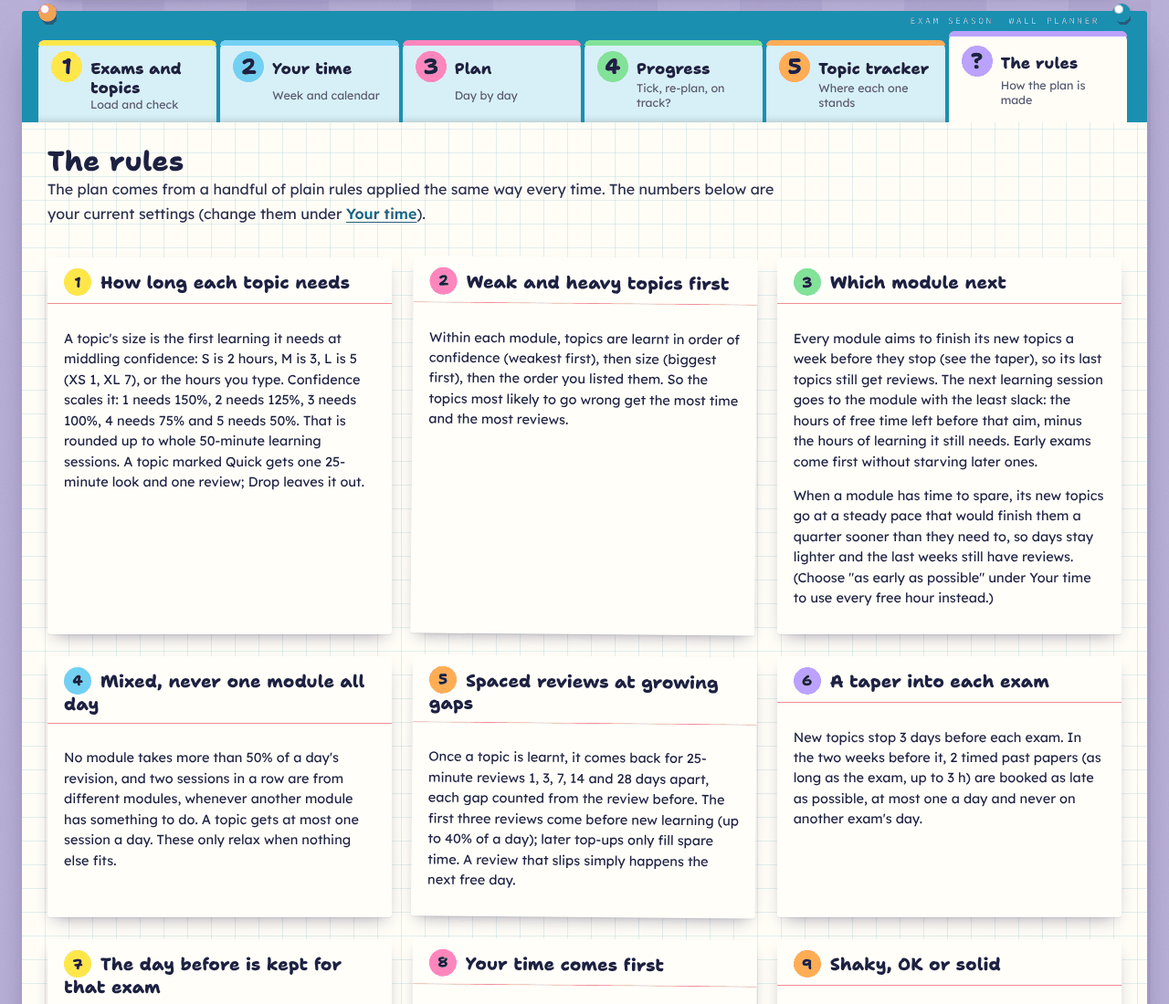
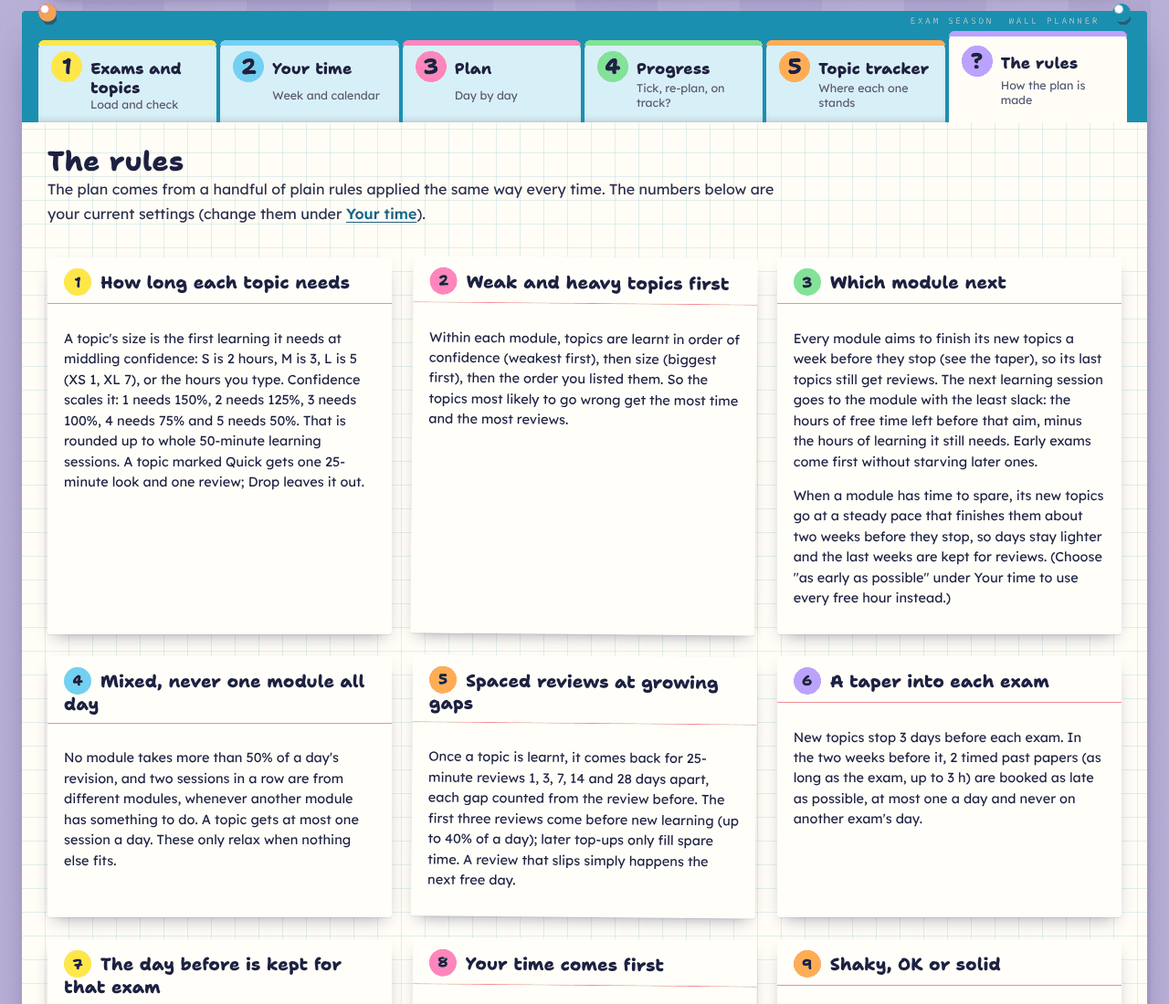
Audit after the review: pace new topics to two weeks before they stop so the last ones still get reviews, a separate session column, board codes on loose lines only with a date, and the keyboard focus follows Tab after an edit

Changed region(s): [[0.6875, 0.4945, 0.9375, 0.6182]]

diff --git a/app/index.html b/app/index.html
@@ -1325,13 +1325,14 @@ var ExamSeason = (function () {
     code: ['module code', 'module', 'course code', 'unit code', 'code', 'paper code', 'subject code', 'module id', 'exam code', 'component code', 'assessment code', 'module ref', 'module no'],
     name: ['module title', 'module name', 'title', 'course title', 'course name', 'course', 'unit title', 'unit name', 'unit', 'paper', 'paper title', 'exam title', 'subject', 'module description', 'assessment title', 'examination', 'exam', 'exam name'],
     date: ['date', 'exam date', 'day date', 'date of exam', 'examination date', 'day', 'exam day', 'date and time', 'date time', 'start date', 'when'],
-    start: ['start', 'start time', 'time', 'begins', 'from', 'exam start', 'starts', 'start at', 'session', 'am pm', 'am or pm', 'exam session'],
+    start: ['start', 'start time', 'time', 'begins', 'from', 'exam start', 'starts', 'start at'],
     end: ['end', 'end time', 'finish', 'finish time', 'to', 'until', 'ends', 'exam end'],
     duration: ['duration', 'length', 'duration mins', 'duration minutes', 'duration hrs', 'duration hours', 'exam duration', 'mins', 'minutes', 'hours', 'hrs', 'length mins', 'length hours'],
     room: ['venue', 'room', 'location', 'building', 'hall', 'exam venue', 'exam room', 'place', 'centre', 'campus'],
     seat: ['seat', 'seat no', 'seat number', 'desk', 'desk number', 'desk no'],
     type: ['type', 'assessment type', 'exam type', 'component', 'sitting', 'attempt', 'kind', 'format', 'mode', 'assessment', 'period'],
-    notes: ['notes', 'note', 'comments', 'comment', 'information', 'info', 'details', 'additional information', 'remarks']
+    notes: ['notes', 'note', 'comments', 'comment', 'information', 'info', 'details', 'additional information', 'remarks'],
+    session: ['session', 'am pm', 'am or pm', 'exam session', 'time of day']
   };
 
   var EXAM_KEYWORDS = [
@@ -1568,8 +1569,14 @@ var ExamSeason = (function () {
     }
     if (start === null) { start = startFromDate; if (end === null) end = endFromDate; }
     var fromSession = false;
+    var sessCell = cell(cells, map.session);
+    if (start === null && sessCell) {
+      var tsx = findTimes(sessCell);
+      if (tsx.length) start = tsx[0].min;
+    }
     if (start === null) {
       start = startCell ? sessionStart(startCell) : null;
+      if (start === null && sessCell) start = sessionStart(sessCell);
       if (start === null && day !== null) start = sessionStart(dateCell);
       fromSession = start !== null;
     }
@@ -1617,8 +1624,9 @@ var ExamSeason = (function () {
       var raw = squash(lines[i]), line = i + 1;
       if (!raw) continue;
       var code = findCode(raw), paper = null;
-      if (!code) { paper = findBoardCode(raw); code = paper; }
       var date = findDate(raw, 'DMY', ref);
+      // A board paper code counts only on a line that also has a date.
+      if (!code && date) { paper = findBoardCode(raw); code = paper; }
       if (!code && !date) {
         if (out.exams.length === 0) continue;
         out.messages.push({ level: 'info', line: line, text: 'Line ' + line + ' was not read: no module code or date in "' + firstChars(raw, 60) + '".' });
@@ -3099,11 +3107,12 @@ var ExamSeason = (function () {
     states.forEach(function (st) { if (st.done < st.count) remaining[st.exam.id] += (st.count - st.done) * st.len; });
 
     // With time to spare, a module's new learning goes at a steady pace
-    // that would finish it a little (a quarter) faster than its aim needs,
-    // instead of filling the first weeks and leaving the last ones empty.
+    // that would finish it a quarter early against a target a week before
+    // its aim (so two weeks before new topics stop, leaving room for
+    // reviews), instead of filling the first weeks and leaving the rest empty.
     // Time to spare means the learning and the first three reviews still
-    // to do take under four fifths of the free time before the aim, for
-    // the module and for the plan as a whole.
+    // to do take under four fifths of the free time: before the module's
+    // target, and before the last aim for the plan as a whole.
     var credit = {}, lastAim = from;
     plan.exams.forEach(function (e) { credit[e.id] = 0; lastAim = Math.max(lastAim, e.aimBy); });
     function needLeft() {
@@ -3138,8 +3147,8 @@ var ExamSeason = (function () {
       if (need && need.total * 5 < capBetween(x, Math.min(lastAim - from, nDays - 1)) * 4) {
         var free0 = Math.max(0, dd.cap - dd.used);
         plan.exams.forEach(function (e) {
-          if (remaining[e.id] <= 0 || d > e.aimBy) return;
-          var span = capBetween(x, Math.min(e.aimBy - from, nDays - 1));
+          if (remaining[e.id] <= 0 || d > e.aimBy - 7) return;
+          var span = capBetween(x, Math.min(e.aimBy - 7 - from, nDays - 1));
           if (span <= 0 || need.byExam[e.id] * 5 >= span * 4) return;
           credit[e.id] += ceilDiv(remaining[e.id] * free0 * 5, span * 4);
           paced[e.id] = true;
@@ -3990,6 +3999,8 @@ if (typeof module !== 'undefined' && module.exports) module.exports = ExamSeason
   function $all(sel, root) { return Array.prototype.slice.call((root || document).querySelectorAll(sel)); }
 
   function plural(n, one, many) { return n + ' ' + (n === 1 ? one : (many || one + 's')); }
+
+  function later(fn) { setTimeout(fn, 0); }
 
   function esc(s) {
     return String(s === null || s === undefined ? '' : s).replace(/&/g, '&amp;').replace(/</g, '&lt;').replace(/>/g, '&gt;').replace(/"/g, '&quot;').replace(/'/g, '&#39;');
@@ -5103,7 +5114,7 @@ if (typeof module !== 'undefined' && module.exports) module.exports = ExamSeason
       ['m0', 'How long each topic needs', '<p>A topic\'s size is the first learning it needs at middling confidence: S is 2 hours, M is 3, L is 5 (XS 1, XL 7), or the hours you type. Confidence scales it: 1 needs 150%, 2 needs 125%, 3 needs 100%, 4 needs 75% and 5 needs 50%. That is rounded up to whole ' + s.learnMin + '-minute learning sessions. A topic marked Quick gets one ' + s.reviewMin + '-minute look and one review; Drop leaves it out.</p>'],
       ['m1', 'Weak and heavy topics first', '<p>Within each module, topics are learnt in order of confidence (weakest first), then size (biggest first), then the order you listed them. So the topics most likely to go wrong get the most time and the most reviews.</p>'],
       ['m2', 'Which module next', '<p>Every module aims to finish its new topics a week before they stop (see the taper), so its last topics still get reviews. The next learning session goes to the module with the least slack: the hours of free time left before that aim, minus the hours of learning it still needs. Early exams come first without starving later ones.</p>' +
-        (s.pace === 'spread' ? '<p>When a module has time to spare, its new topics go at a steady pace that would finish them a quarter sooner than they need to, so days stay lighter and the last weeks still have reviews. (Choose "as early as possible" under Your time to use every free hour instead.)</p>' : '<p>New topics are learnt as early as your free time allows (you chose "as early as possible" under Your time).</p>')],
+        (s.pace === 'spread' ? '<p>When a module has time to spare, its new topics go at a steady pace that finishes them about two weeks before they stop, so days stay lighter and the last weeks are kept for reviews. (Choose "as early as possible" under Your time to use every free hour instead.)</p>' : '<p>New topics are learnt as early as your free time allows (you chose "as early as possible" under Your time).</p>')],
       ['m3', 'Mixed, never one module all day', '<p>No module takes more than ' + s.maxShare + '% of a day\'s revision, and two sessions in a row are from different modules, whenever another module has something to do. A topic gets at most one session a day. These only relax when nothing else fits.</p>'],
       ['m4', 'Spaced reviews at growing gaps', '<p>Once a topic is learnt, it comes back for ' + s.reviewMin + '-minute reviews ' + gaps.join(', ').replace(/, ([0-9]+)$/, ' and $1') + ' days apart, each gap counted from the review before. The first three reviews come before new learning (up to ' + s.reviewShare + '% of a day); later top-ups only fill spare time. A review that slips simply happens the next free day.</p>'],
       ['m5', 'A taper into each exam', '<p>New topics stop ' + plural(s.taperDays, 'day') + ' before each exam. In the two weeks before it, ' + s.papers + ' timed past papers (as long as the exam, up to ' + M.fmtDur(s.paperMax) + ') are booked as late as possible, at most one a day and never on another exam\'s day.</p>'],
@@ -5366,10 +5377,14 @@ if (typeof module !== 'undefined' && module.exports) module.exports = ExamSeason
       if (again) again.focus();
       return;
     }
-    if (t.hasAttribute('data-exam')) { examField(parseInt(t.getAttribute('data-exam'), 10), t.getAttribute('data-field'), t.value); return; }
-    if (t.hasAttribute('data-topic') && t.hasAttribute('data-field')) { topicField(parseInt(t.getAttribute('data-topic'), 10), t.getAttribute('data-field'), t.value); return; }
-    if (t.hasAttribute('data-week')) { weekField(parseInt(t.getAttribute('data-week'), 10), t.getAttribute('data-field'), t.value); return; }
-    if (t.hasAttribute('data-setting')) { settingField(t.getAttribute('data-setting'), t.value); return; }
+    // Field edits are applied once the focus has moved (after Tab, say), so
+    // the redraw puts the focus back where the student went next.
+    var idx = parseInt(t.getAttribute('data-exam') || t.getAttribute('data-topic') || t.getAttribute('data-week'), 10);
+    var field = t.getAttribute('data-field'), value = t.value;
+    if (t.hasAttribute('data-exam')) { later(function () { examField(idx, field, value); }); return; }
+    if (t.hasAttribute('data-topic') && t.hasAttribute('data-field')) { later(function () { topicField(idx, field, value); }); return; }
+    if (t.hasAttribute('data-week')) { later(function () { weekField(idx, field, value); }); return; }
+    if (t.hasAttribute('data-setting')) { var key = t.getAttribute('data-setting'); later(function () { settingField(key, value); }); return; }
     if (t.id === 'set-preset') {
       var pr = PRESETS.filter(function (x) { return x[0] === t.value; })[0];
       if (pr) {

diff --git a/src/model.js b/src/model.js
@@ -631,13 +631,14 @@ var ExamSeason = (function () {
     code: ['module code', 'module', 'course code', 'unit code', 'code', 'paper code', 'subject code', 'module id', 'exam code', 'component code', 'assessment code', 'module ref', 'module no'],
     name: ['module title', 'module name', 'title', 'course title', 'course name', 'course', 'unit title', 'unit name', 'unit', 'paper', 'paper title', 'exam title', 'subject', 'module description', 'assessment title', 'examination', 'exam', 'exam name'],
     date: ['date', 'exam date', 'day date', 'date of exam', 'examination date', 'day', 'exam day', 'date and time', 'date time', 'start date', 'when'],
-    start: ['start', 'start time', 'time', 'begins', 'from', 'exam start', 'starts', 'start at', 'session', 'am pm', 'am or pm', 'exam session'],
+    start: ['start', 'start time', 'time', 'begins', 'from', 'exam start', 'starts', 'start at'],
     end: ['end', 'end time', 'finish', 'finish time', 'to', 'until', 'ends', 'exam end'],
     duration: ['duration', 'length', 'duration mins', 'duration minutes', 'duration hrs', 'duration hours', 'exam duration', 'mins', 'minutes', 'hours', 'hrs', 'length mins', 'length hours'],
     room: ['venue', 'room', 'location', 'building', 'hall', 'exam venue', 'exam room', 'place', 'centre', 'campus'],
     seat: ['seat', 'seat no', 'seat number', 'desk', 'desk number', 'desk no'],
     type: ['type', 'assessment type', 'exam type', 'component', 'sitting', 'attempt', 'kind', 'format', 'mode', 'assessment', 'period'],
-    notes: ['notes', 'note', 'comments', 'comment', 'information', 'info', 'details', 'additional information', 'remarks']
+    notes: ['notes', 'note', 'comments', 'comment', 'information', 'info', 'details', 'additional information', 'remarks'],
+    session: ['session', 'am pm', 'am or pm', 'exam session', 'time of day']
   };
 
   var EXAM_KEYWORDS = [
@@ -874,8 +875,14 @@ var ExamSeason = (function () {
     }
     if (start === null) { start = startFromDate; if (end === null) end = endFromDate; }
     var fromSession = false;
+    var sessCell = cell(cells, map.session);
+    if (start === null && sessCell) {
+      var tsx = findTimes(sessCell);
+      if (tsx.length) start = tsx[0].min;
+    }
     if (start === null) {
       start = startCell ? sessionStart(startCell) : null;
+      if (start === null && sessCell) start = sessionStart(sessCell);
       if (start === null && day !== null) start = sessionStart(dateCell);
       fromSession = start !== null;
     }
@@ -923,8 +930,9 @@ var ExamSeason = (function () {
       var raw = squash(lines[i]), line = i + 1;
       if (!raw) continue;
       var code = findCode(raw), paper = null;
-      if (!code) { paper = findBoardCode(raw); code = paper; }
       var date = findDate(raw, 'DMY', ref);
+      // A board paper code counts only on a line that also has a date.
+      if (!code && date) { paper = findBoardCode(raw); code = paper; }
       if (!code && !date) {
         if (out.exams.length === 0) continue;
         out.messages.push({ level: 'info', line: line, text: 'Line ' + line + ' was not read: no module code or date in "' + firstChars(raw, 60) + '".' });
@@ -2405,11 +2413,12 @@ var ExamSeason = (function () {
     states.forEach(function (st) { if (st.done < st.count) remaining[st.exam.id] += (st.count - st.done) * st.len; });
 
     // With time to spare, a module's new learning goes at a steady pace
-    // that would finish it a little (a quarter) faster than its aim needs,
-    // instead of filling the first weeks and leaving the last ones empty.
+    // that would finish it a quarter early against a target a week before
+    // its aim (so two weeks before new topics stop, leaving room for
+    // reviews), instead of filling the first weeks and leaving the rest empty.
     // Time to spare means the learning and the first three reviews still
-    // to do take under four fifths of the free time before the aim, for
-    // the module and for the plan as a whole.
+    // to do take under four fifths of the free time: before the module's
+    // target, and before the last aim for the plan as a whole.
     var credit = {}, lastAim = from;
     plan.exams.forEach(function (e) { credit[e.id] = 0; lastAim = Math.max(lastAim, e.aimBy); });
     function needLeft() {
@@ -2444,8 +2453,8 @@ var ExamSeason = (function () {
       if (need && need.total * 5 < capBetween(x, Math.min(lastAim - from, nDays - 1)) * 4) {
         var free0 = Math.max(0, dd.cap - dd.used);
         plan.exams.forEach(function (e) {
-          if (remaining[e.id] <= 0 || d > e.aimBy) return;
-          var span = capBetween(x, Math.min(e.aimBy - from, nDays - 1));
+          if (remaining[e.id] <= 0 || d > e.aimBy - 7) return;
+          var span = capBetween(x, Math.min(e.aimBy - 7 - from, nDays - 1));
           if (span <= 0 || need.byExam[e.id] * 5 >= span * 4) return;
           credit[e.id] += ceilDiv(remaining[e.id] * free0 * 5, span * 4);
           paced[e.id] = true;

diff --git a/src/ui.js b/src/ui.js
@@ -24,6 +24,8 @@
 
   function plural(n, one, many) { return n + ' ' + (n === 1 ? one : (many || one + 's')); }
 
+  function later(fn) { setTimeout(fn, 0); }
+
   function esc(s) {
     return String(s === null || s === undefined ? '' : s).replace(/&/g, '&amp;').replace(/</g, '&lt;').replace(/>/g, '&gt;').replace(/"/g, '&quot;').replace(/'/g, '&#39;');
   }
@@ -1136,7 +1138,7 @@
       ['m0', 'How long each topic needs', '<p>A topic\'s size is the first learning it needs at middling confidence: S is 2 hours, M is 3, L is 5 (XS 1, XL 7), or the hours you type. Confidence scales it: 1 needs 150%, 2 needs 125%, 3 needs 100%, 4 needs 75% and 5 needs 50%. That is rounded up to whole ' + s.learnMin + '-minute learning sessions. A topic marked Quick gets one ' + s.reviewMin + '-minute look and one review; Drop leaves it out.</p>'],
       ['m1', 'Weak and heavy topics first', '<p>Within each module, topics are learnt in order of confidence (weakest first), then size (biggest first), then the order you listed them. So the topics most likely to go wrong get the most time and the most reviews.</p>'],
       ['m2', 'Which module next', '<p>Every module aims to finish its new topics a week before they stop (see the taper), so its last topics still get reviews. The next learning session goes to the module with the least slack: the hours of free time left before that aim, minus the hours of learning it still needs. Early exams come first without starving later ones.</p>' +
-        (s.pace === 'spread' ? '<p>When a module has time to spare, its new topics go at a steady pace that would finish them a quarter sooner than they need to, so days stay lighter and the last weeks still have reviews. (Choose "as early as possible" under Your time to use every free hour instead.)</p>' : '<p>New topics are learnt as early as your free time allows (you chose "as early as possible" under Your time).</p>')],
+        (s.pace === 'spread' ? '<p>When a module has time to spare, its new topics go at a steady pace that finishes them about two weeks before they stop, so days stay lighter and the last weeks are kept for reviews. (Choose "as early as possible" under Your time to use every free hour instead.)</p>' : '<p>New topics are learnt as early as your free time allows (you chose "as early as possible" under Your time).</p>')],
       ['m3', 'Mixed, never one module all day', '<p>No module takes more than ' + s.maxShare + '% of a day\'s revision, and two sessions in a row are from different modules, whenever another module has something to do. A topic gets at most one session a day. These only relax when nothing else fits.</p>'],
       ['m4', 'Spaced reviews at growing gaps', '<p>Once a topic is learnt, it comes back for ' + s.reviewMin + '-minute reviews ' + gaps.join(', ').replace(/, ([0-9]+)$/, ' and $1') + ' days apart, each gap counted from the review before. The first three reviews come before new learning (up to ' + s.reviewShare + '% of a day); later top-ups only fill spare time. A review that slips simply happens the next free day.</p>'],
       ['m5', 'A taper into each exam', '<p>New topics stop ' + plural(s.taperDays, 'day') + ' before each exam. In the two weeks before it, ' + s.papers + ' timed past papers (as long as the exam, up to ' + M.fmtDur(s.paperMax) + ') are booked as late as possible, at most one a day and never on another exam\'s day.</p>'],
@@ -1399,10 +1401,14 @@
       if (again) again.focus();
       return;
     }
-    if (t.hasAttribute('data-exam')) { examField(parseInt(t.getAttribute('data-exam'), 10), t.getAttribute('data-field'), t.value); return; }
-    if (t.hasAttribute('data-topic') && t.hasAttribute('data-field')) { topicField(parseInt(t.getAttribute('data-topic'), 10), t.getAttribute('data-field'), t.value); return; }
-    if (t.hasAttribute('data-week')) { weekField(parseInt(t.getAttribute('data-week'), 10), t.getAttribute('data-field'), t.value); return; }
-    if (t.hasAttribute('data-setting')) { settingField(t.getAttribute('data-setting'), t.value); return; }
+    // Field edits are applied once the focus has moved (after Tab, say), so
+    // the redraw puts the focus back where the student went next.
+    var idx = parseInt(t.getAttribute('data-exam') || t.getAttribute('data-topic') || t.getAttribute('data-week'), 10);
+    var field = t.getAttribute('data-field'), value = t.value;
+    if (t.hasAttribute('data-exam')) { later(function () { examField(idx, field, value); }); return; }
+    if (t.hasAttribute('data-topic') && t.hasAttribute('data-field')) { later(function () { topicField(idx, field, value); }); return; }
+    if (t.hasAttribute('data-week')) { later(function () { weekField(idx, field, value); }); return; }
+    if (t.hasAttribute('data-setting')) { var key = t.getAttribute('data-setting'); later(function () { settingField(key, value); }); return; }
     if (t.id === 'set-preset') {
       var pr = PRESETS.filter(function (x) { return x[0] === t.value; })[0];
       if (pr) {

diff --git a/companion/examseason/model.py b/companion/examseason/model.py
@@ -666,13 +666,14 @@ EXAM_SYNONYMS = {
     'code': ['module code', 'module', 'course code', 'unit code', 'code', 'paper code', 'subject code', 'module id', 'exam code', 'component code', 'assessment code', 'module ref', 'module no'],
     'name': ['module title', 'module name', 'title', 'course title', 'course name', 'course', 'unit title', 'unit name', 'unit', 'paper', 'paper title', 'exam title', 'subject', 'module description', 'assessment title', 'examination', 'exam', 'exam name'],
     'date': ['date', 'exam date', 'day date', 'date of exam', 'examination date', 'day', 'exam day', 'date and time', 'date time', 'start date', 'when'],
-    'start': ['start', 'start time', 'time', 'begins', 'from', 'exam start', 'starts', 'start at', 'session', 'am pm', 'am or pm', 'exam session'],
+    'start': ['start', 'start time', 'time', 'begins', 'from', 'exam start', 'starts', 'start at'],
     'end': ['end', 'end time', 'finish', 'finish time', 'to', 'until', 'ends', 'exam end'],
     'duration': ['duration', 'length', 'duration mins', 'duration minutes', 'duration hrs', 'duration hours', 'exam duration', 'mins', 'minutes', 'hours', 'hrs', 'length mins', 'length hours'],
     'room': ['venue', 'room', 'location', 'building', 'hall', 'exam venue', 'exam room', 'place', 'centre', 'campus'],
     'seat': ['seat', 'seat no', 'seat number', 'desk', 'desk number', 'desk no'],
     'type': ['type', 'assessment type', 'exam type', 'component', 'sitting', 'attempt', 'kind', 'format', 'mode', 'assessment', 'period'],
     'notes': ['notes', 'note', 'comments', 'comment', 'information', 'info', 'details', 'additional information', 'remarks'],
+    'session': ['session', 'am pm', 'am or pm', 'exam session', 'time of day'],
 }
 
 EXAM_KEYWORDS = [
@@ -933,8 +934,15 @@ def exam_from_cells(cells, mp, unit, ref, line, messages, order='DMY'):
         if end is None:
             end = end_from_date
     from_session = False
+    sess_cell = cell(cells, mp.get('session'))
+    if start is None and sess_cell:
+        tsx = find_times(sess_cell)
+        if tsx:
+            start = tsx[0]['min']
     if start is None:
         start = session_start(start_cell) if start_cell else None
+        if start is None and sess_cell:
+            start = session_start(sess_cell)
         if start is None and day is not None:
             start = session_start(date_cell)
         from_session = start is not None
@@ -991,10 +999,11 @@ def read_exam_lines(text, out, ref):
         if not raw:
             continue
         code, paper = find_code(raw), None
-        if not code:
+        date = find_date(raw, 'DMY', ref)
+        # A board paper code counts only on a line that also has a date.
+        if not code and date:
             paper = find_board_code(raw)
             code = paper
-        date = find_date(raw, 'DMY', ref)
         if not code and not date:
             if not out['exams']:
                 continue
@@ -2646,11 +2655,12 @@ def build_plan(project):
             remaining[st['exam']['id']] += (st['count'] - st['done']) * st['len']
 
     # With time to spare, a module's new learning goes at a steady pace
-    # that would finish it a little (a quarter) faster than its aim needs,
-    # instead of filling the first weeks and leaving the last ones empty.
+    # that would finish it a quarter early against a target a week before
+    # its aim (so two weeks before new topics stop, leaving room for
+    # reviews), instead of filling the first weeks and leaving the rest empty.
     # Time to spare means the learning and the first three reviews still
-    # to do take under four fifths of the free time before the aim, for
-    # the module and for the plan as a whole.
+    # to do take under four fifths of the free time: before the module's
+    # target, and before the last aim for the plan as a whole.
     credit = {e['id']: 0 for e in plan['exams']}
     last_aim = max([frm] + [e['aimBy'] for e in plan['exams']])
 
@@ -2669,9 +2679,9 @@ def build_plan(project):
         if need and need['total'] * 5 < cap_between(x, min(last_aim - frm, n_days - 1)) * 4:
             free0 = max(0, dd['cap'] - dd['used'])
             for e in plan['exams']:
-                if remaining[e['id']] <= 0 or d > e['aimBy']:
+                if remaining[e['id']] <= 0 or d > e['aimBy'] - 7:
                     continue
-                span = cap_between(x, min(e['aimBy'] - frm, n_days - 1))
+                span = cap_between(x, min(e['aimBy'] - 7 - frm, n_days - 1))
                 if span <= 0 or need['byExam'][e['id']] * 5 >= span * 4:
                     continue
                 credit[e['id']] += ceil_div(remaining[e['id']] * free0 * 5, span * 4)

diff --git a/tests/test_app.py b/tests/test_app.py
@@ -176,6 +176,14 @@ class AppTest(unittest.TestCase):
         page.keyboard.press('Enter')
         page.wait_for_function("document.querySelector('button[data-topic=\"0\"][data-conf=\"4\"]').getAttribute('aria-pressed') === 'true'")
         self.assertEqual(page.evaluate("document.activeElement.getAttribute('data-conf')"), '4')
+        # Editing a title and pressing Tab lands on the next field, even though the page is redrawn.
+        page.click('.exam-row:not(.head) input[data-field=name] >> nth=0')
+        page.keyboard.press('End')
+        page.keyboard.type(' (A level)')
+        page.keyboard.press('Tab')
+        page.wait_for_function("document.querySelector('.module-cards').innerText.includes('(A level)') || document.querySelector('.exam-row:not(.head) input[data-field=name]').value.includes('(A level)')")
+        page.wait_for_timeout(100)
+        self.assertEqual(page.evaluate("document.activeElement.getAttribute('data-field')"), 'day')
         # Removing every topic asks for a second press (no pop-up, so it works in a frame too).
         page.click('[data-action=clear-topics]')
         self.assertIn('Press again', page.inner_text('[data-action=clear-topics]'))

diff --git a/README.md b/README.md
@@ -154,7 +154,7 @@ Tests that need Node, Playwright or `icalendar` skip cleanly when they are missi
 2. **How long each topic needs.** Size times a confidence factor (150% for confidence 1 down to 50% for 5), rounded up to whole learning sessions (50 minutes by default).
 3. **Your free time.** Each day's window from your week or a dated change, minus busy times with a gap either side and the exam itself, capped at your hours. On an exam day you revise only after the exam, for half your hours (adjustable).
 4. **Kept days and past papers first.** The day before each exam is kept for a final review of every topic, weakest first. Then two timed past papers per exam are booked as late as possible in its last fortnight, at most one a day.
-5. **Filling each day in time order.** Each free slot gets the best session that fits: first, the unfinished topics of an exam whose new topics stop within three days; then the first three spaced reviews that are due (1, 3 and 7 days apart, then 14 and 28); then new learning for the module with the least slack (hours free before its aim, a week before new topics stop, minus the learning it still needs), weakest and biggest topics first; then later top-up reviews. No module takes more than half a day, two sessions in a row are from different modules, and a topic gets one session a day, unless nothing else fits. When there is time to spare (the learning and first reviews still to do fit in under four fifths of the free time before the aim, for the module and for the plan as a whole), a module's new topics go at a steady pace that would finish them a quarter sooner than needed, rather than filling the first weeks and leaving the last ones empty; "as early as possible" under *Your time* turns this off.
+5. **Filling each day in time order.** Each free slot gets the best session that fits: first, the unfinished topics of an exam whose new topics stop within three days; then the first three spaced reviews that are due (1, 3 and 7 days apart, then 14 and 28); then new learning for the module with the least slack (hours free before its aim, a week before new topics stop, minus the learning it still needs), weakest and biggest topics first; then later top-up reviews. No module takes more than half a day, two sessions in a row are from different modules, and a topic gets one session a day, unless nothing else fits. When there is time to spare (the learning and first three reviews still to do take under four fifths of the free time left, for the module and for the plan as a whole), a module's new topics go at a steady pace that finishes them about two weeks before new topics stop, rather than filling the first weeks and leaving the last ones empty; "as early as possible" under *Your time* turns this off.
 6. **Progress.** The plan depends only on the inputs, the day it was planned from and the sessions done before then, so ticking never moves it. Re-planning files unticked past sessions as missed, settles every tick and plans again from today. A review rated shaky sends its topic back to the start of the ladder of gaps (the next review is a day later), OK moves it one step and solid two.
 7. **On track?** Hours needed are first learning, three spaced reviews and a final review per topic, plus the past papers. Learning that does not fit before new topics stop means not enough time; a missing past paper, final review or second review means tight; unticked past sessions mean behind.
 
